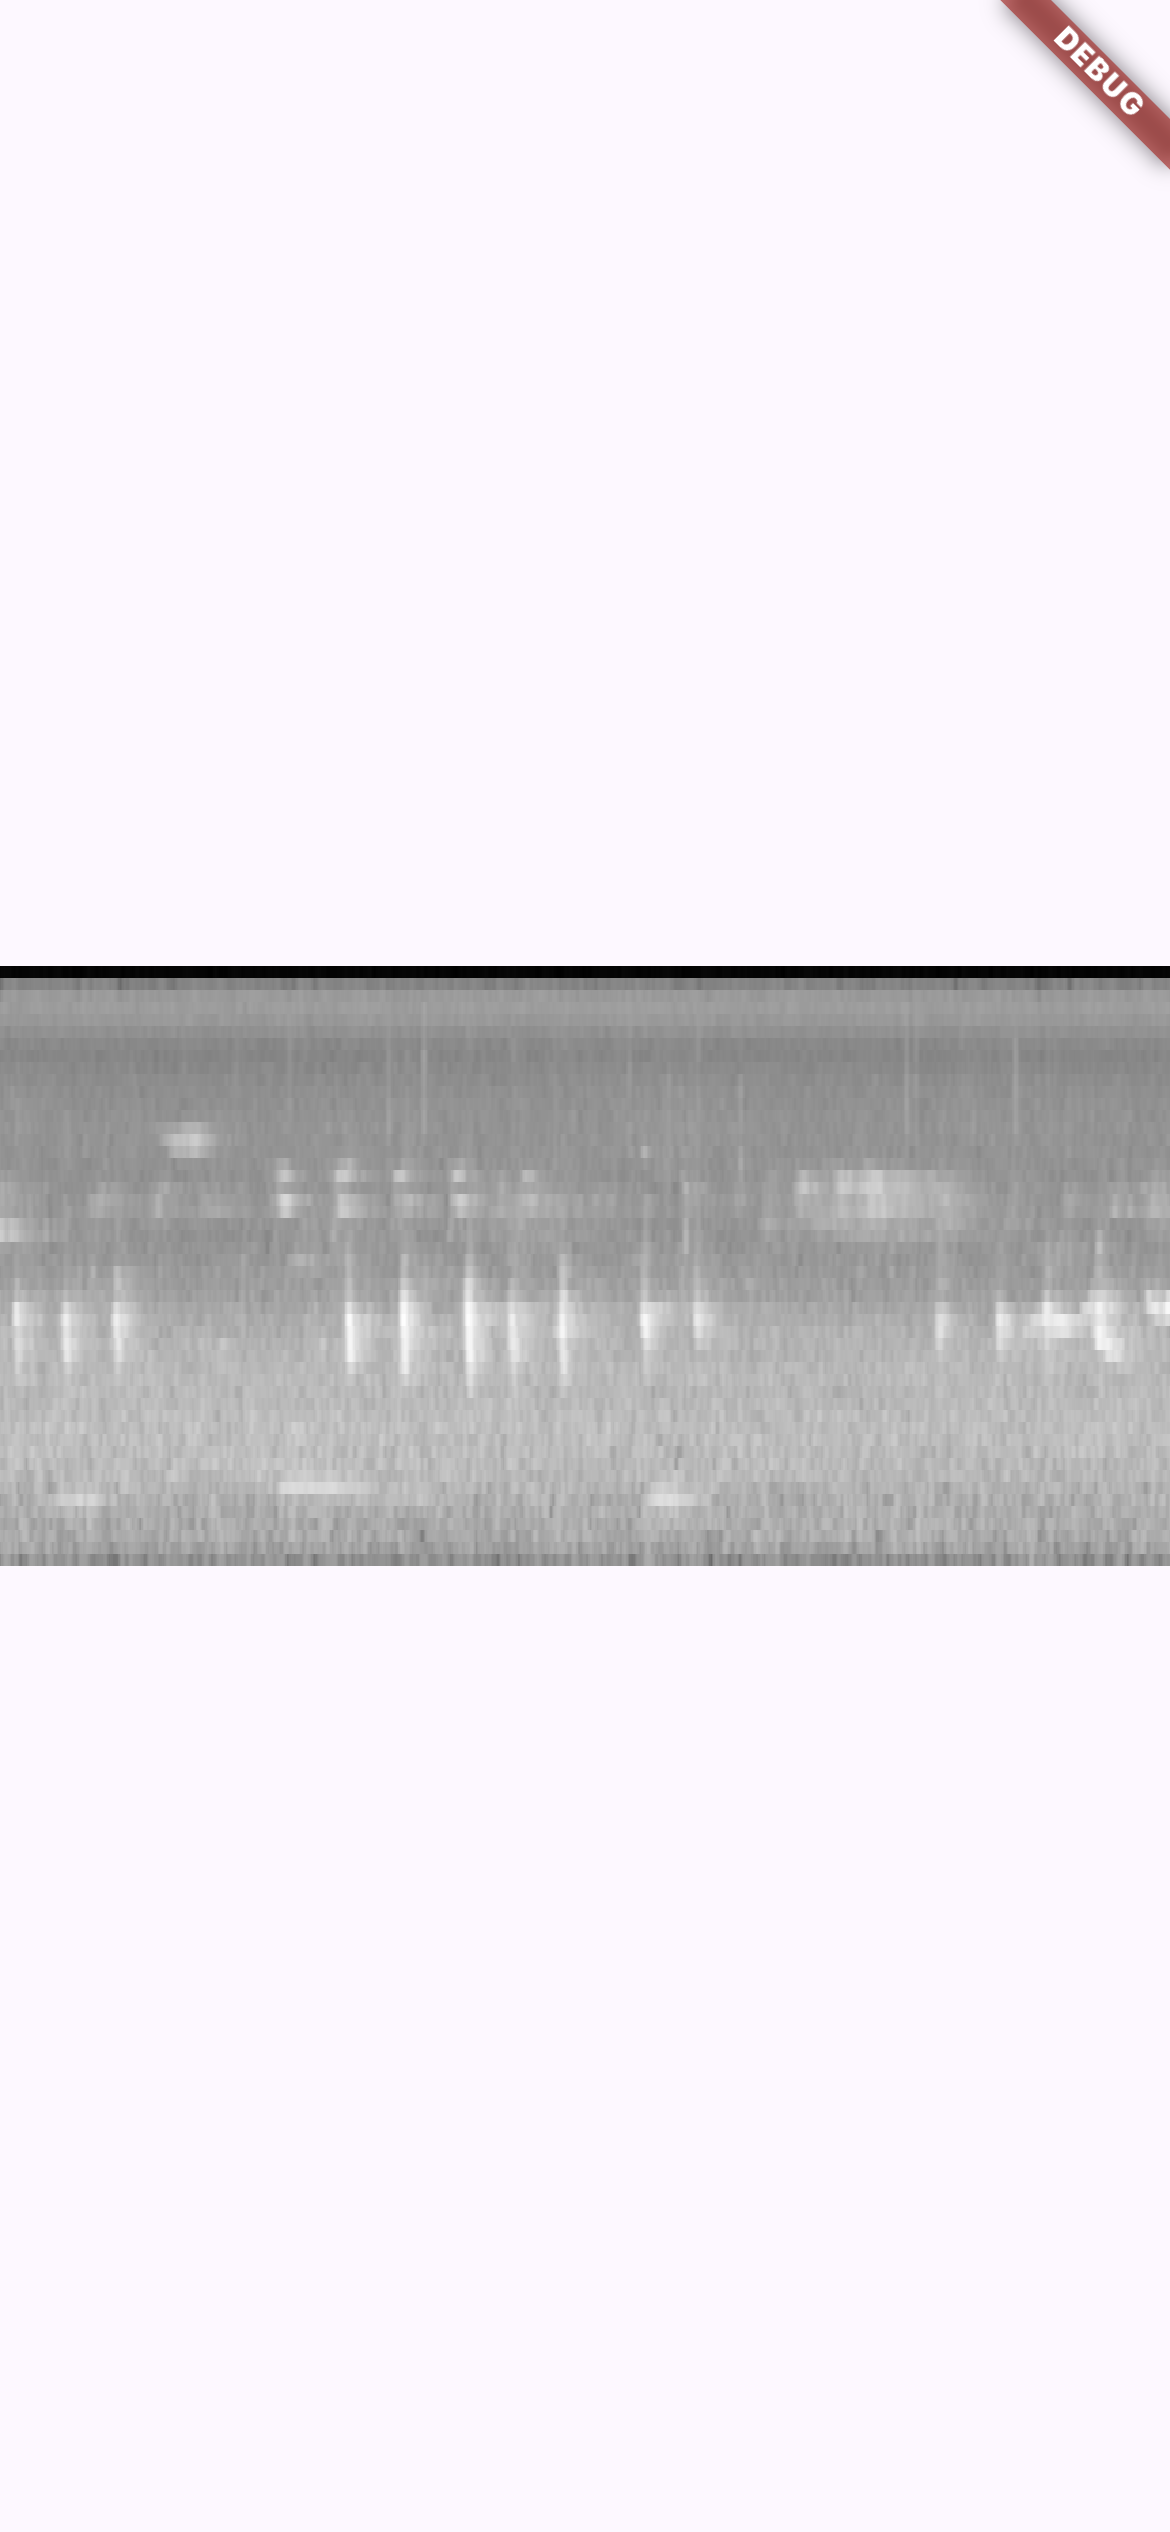
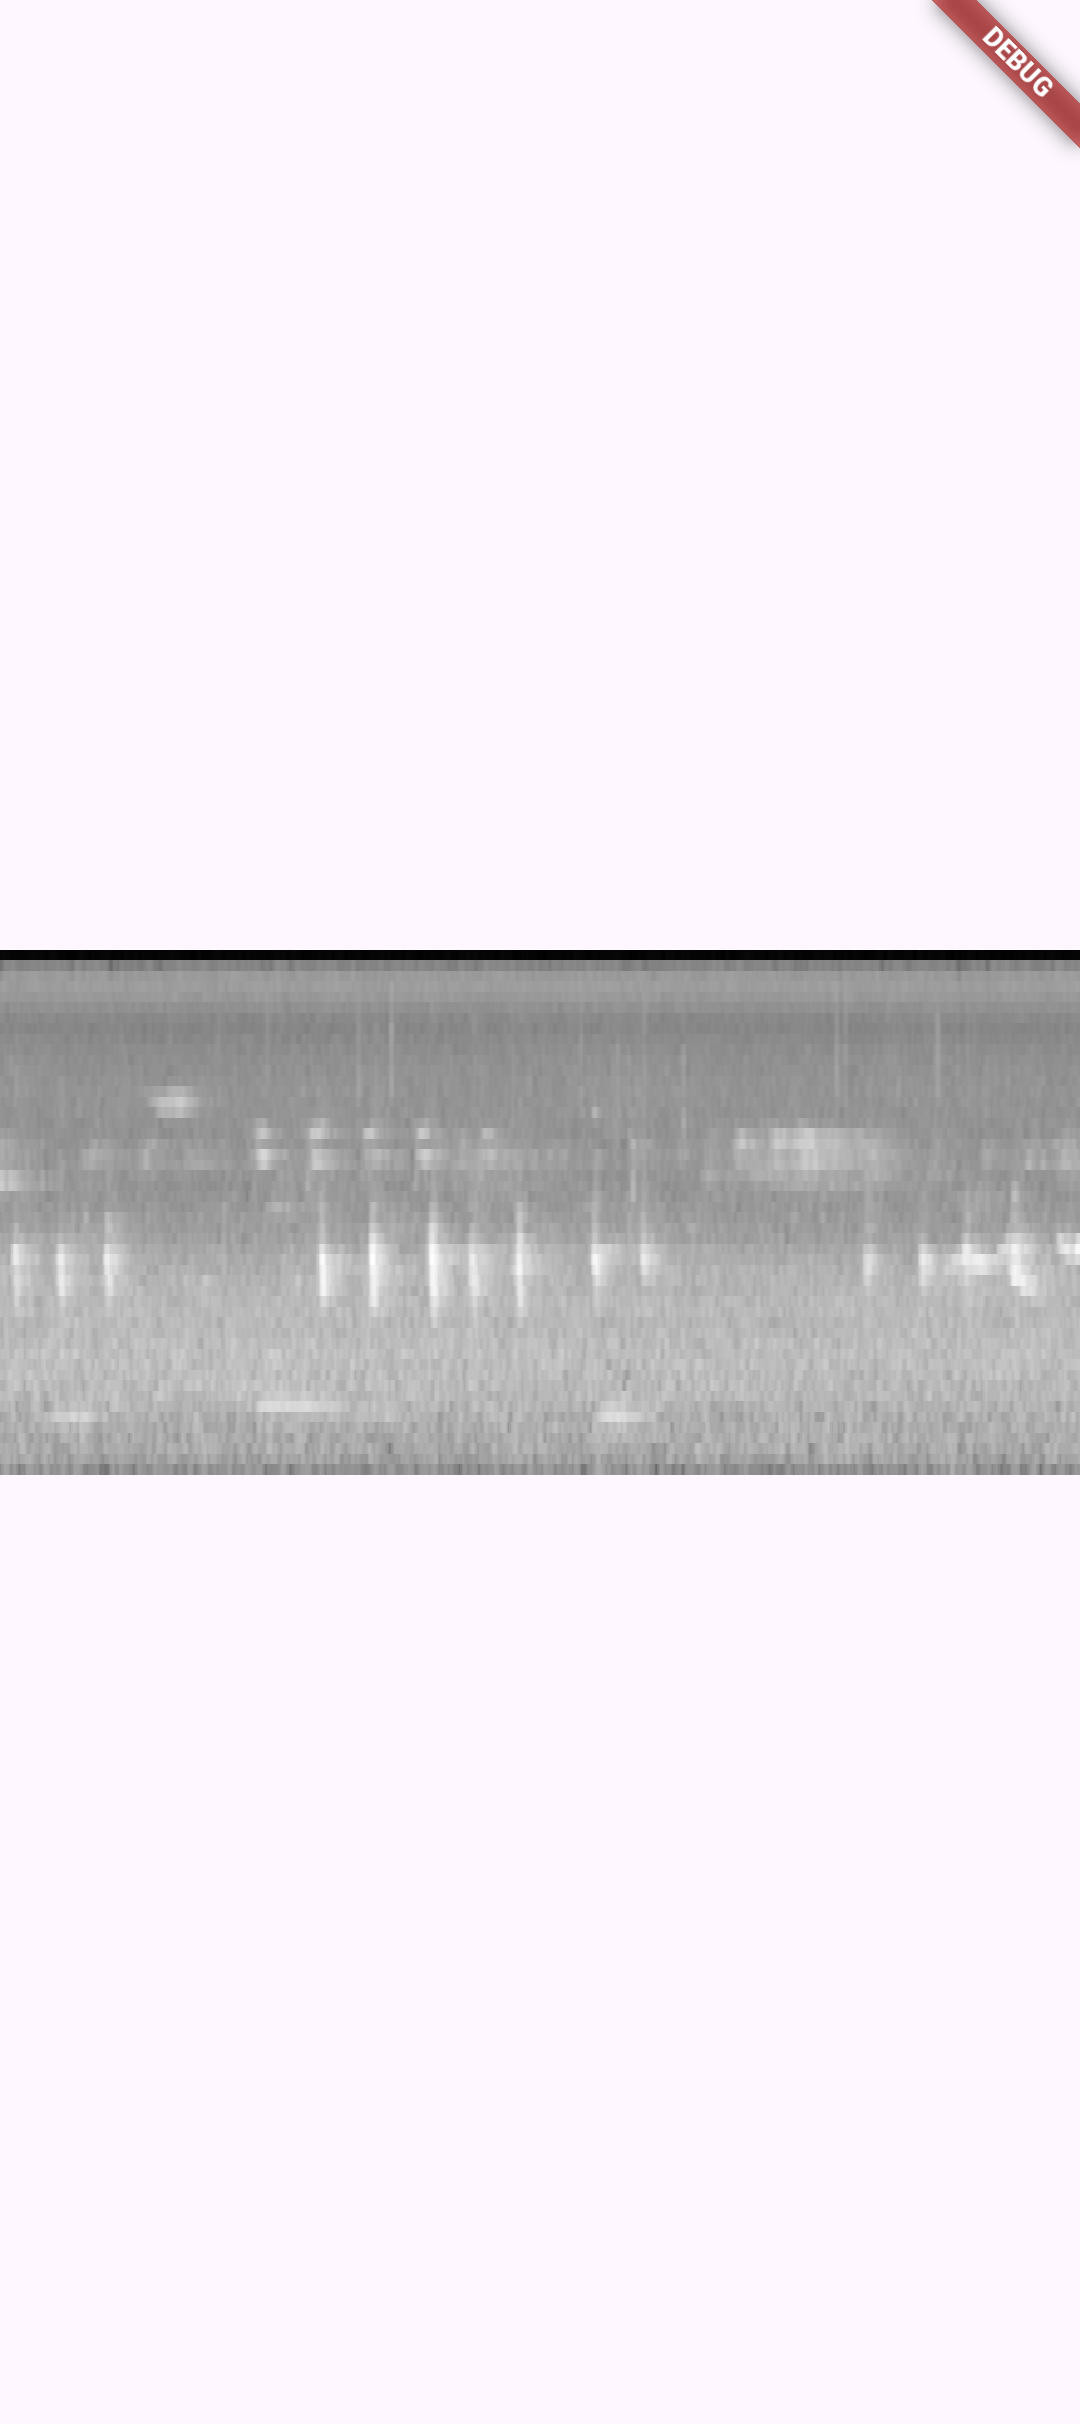
feat: update version to 0.0.5 and clean up main.dart formatting

diff --git a/example/lib/main.dart b/example/lib/main.dart
@@ -9,8 +9,6 @@ import 'package:path_provider/path_provider.dart';
 import 'package:path/path.dart' as p;
 
 import 'package:mel_spectrogram_flutter/mel_spectrogram_flutter.dart';
-import 'package:mel_spectrogram_flutter/mel_spectrogram_plot.dart';
-
 
 void main() {
   runApp(const MyApp());
@@ -110,8 +108,7 @@ class _MyAppState extends State<MyApp> {
 
             Text('Playhead: ${(_playheadPosition * 100).toStringAsFixed(1)}%'),
 
-            if (_computeTime != null)
-              Text('Compute time: $_computeTime ms'),
+            if (_computeTime != null) Text('Compute time: $_computeTime ms'),
 
             // configuration form
             Expanded(
